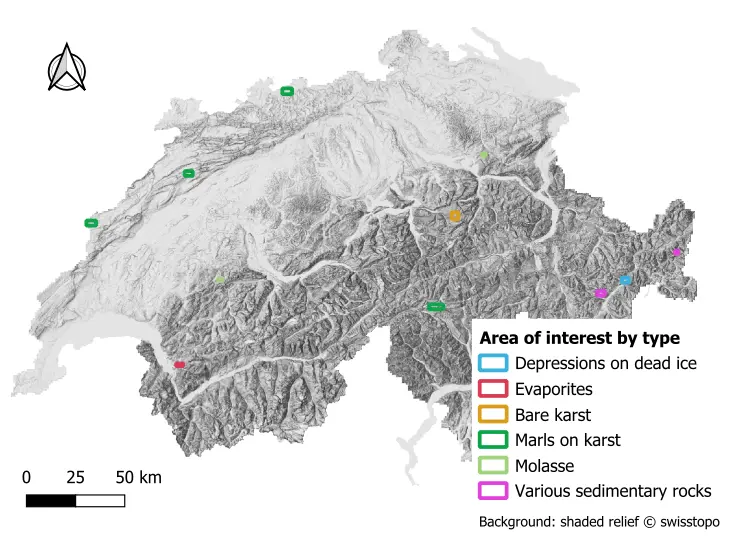
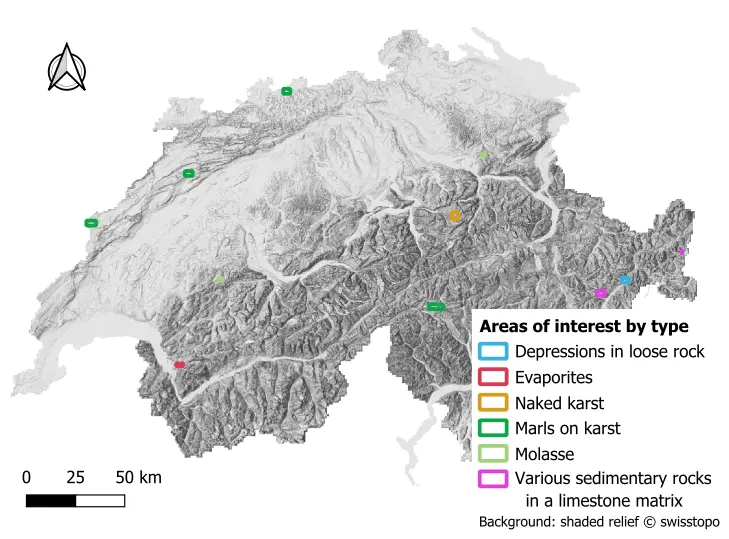
Improve readme

diff --git a/README.md b/README.md
@@ -40,7 +40,7 @@ Eleven areas of interest were selected by a geologist to test the methods. The a
 
 ![Area of interest](img/AOIs.webp)
 
-The geological type of each area is indicated in the attributes.
+The lithological type of each area is indicated in the attributes.
 
 ### DEM
 
@@ -81,8 +81,8 @@ The F2 score was used to optimize the parameters of all methods.
 
 **Parameters**
 
-The chosen geological type must be specified in the script `global_parameters.py`. Only the areas of interest with the corresponding type will be processed. `None` means that all the areas are processed at once with the same parameters. <br>
-The parameters are automatically adjusted to the geological type. They are saved for each type and method in the script `global_parameters.py`. They are imported in the workflow when needed.
+The chosen lithological type must be specified in the script `global_parameters.py`. Only the areas of interest with the corresponding type will be processed. `None` means that all the areas are processed at once with the same parameters. <br>
+The parameters are automatically adjusted to the lithological type. They are saved for each type and method in the script `global_parameters.py`. They are imported in the workflow when needed.
 
 The configuration files are used mostly to indicate input and output paths for each script.
 
@@ -94,7 +94,7 @@ The results are compared to the ground truth and metrics are outputted with the 
 python scripts/assess_results.py config/<config file>
 ```
 
-For each method, the metrics are given for the geological type for which it was the best method based on the F2 score.
+For each method, the metrics are given for the lithological type for which it was the best method based on the F2 score.
 
 ### IGN method
 
@@ -127,13 +127,13 @@ To determine the best parameters for the Swiss topography, the algorithm is opti
 python scripts/ign/optimization_ign.py config/config_ign.yaml
 ```
 
-After the optimization, this method was the best one for the area of depressions on dead ice and evaporites. The following metrics were obtained on the ground truth:
+After the optimization, this method was the best one for the area of depressions in loose rock and evaporites. The following metrics were obtained on the ground truth:
 
-_Table 1: metrics for each type of geology for which the IGN's method was the best method._
+_Table 1: metrics for each type of lithology for which the IGN's method was the best method._
 
-| **Area type** | **precision** | **recall** | **F2 score**           |
+| **Lithological type** | **precision** | **recall** | **F2 score**           |
 |--------------------|:------------:|:--------------:|:-------------------:|
-| Depressions on dead ice         |       0.75       |         0.62       |         0.64            |
+| Depressions in loose rock         |       0.75       |         0.62       |         0.64            |
 | Evaporites              |          0.52    |       0.94         |         0.81            |
 
 
